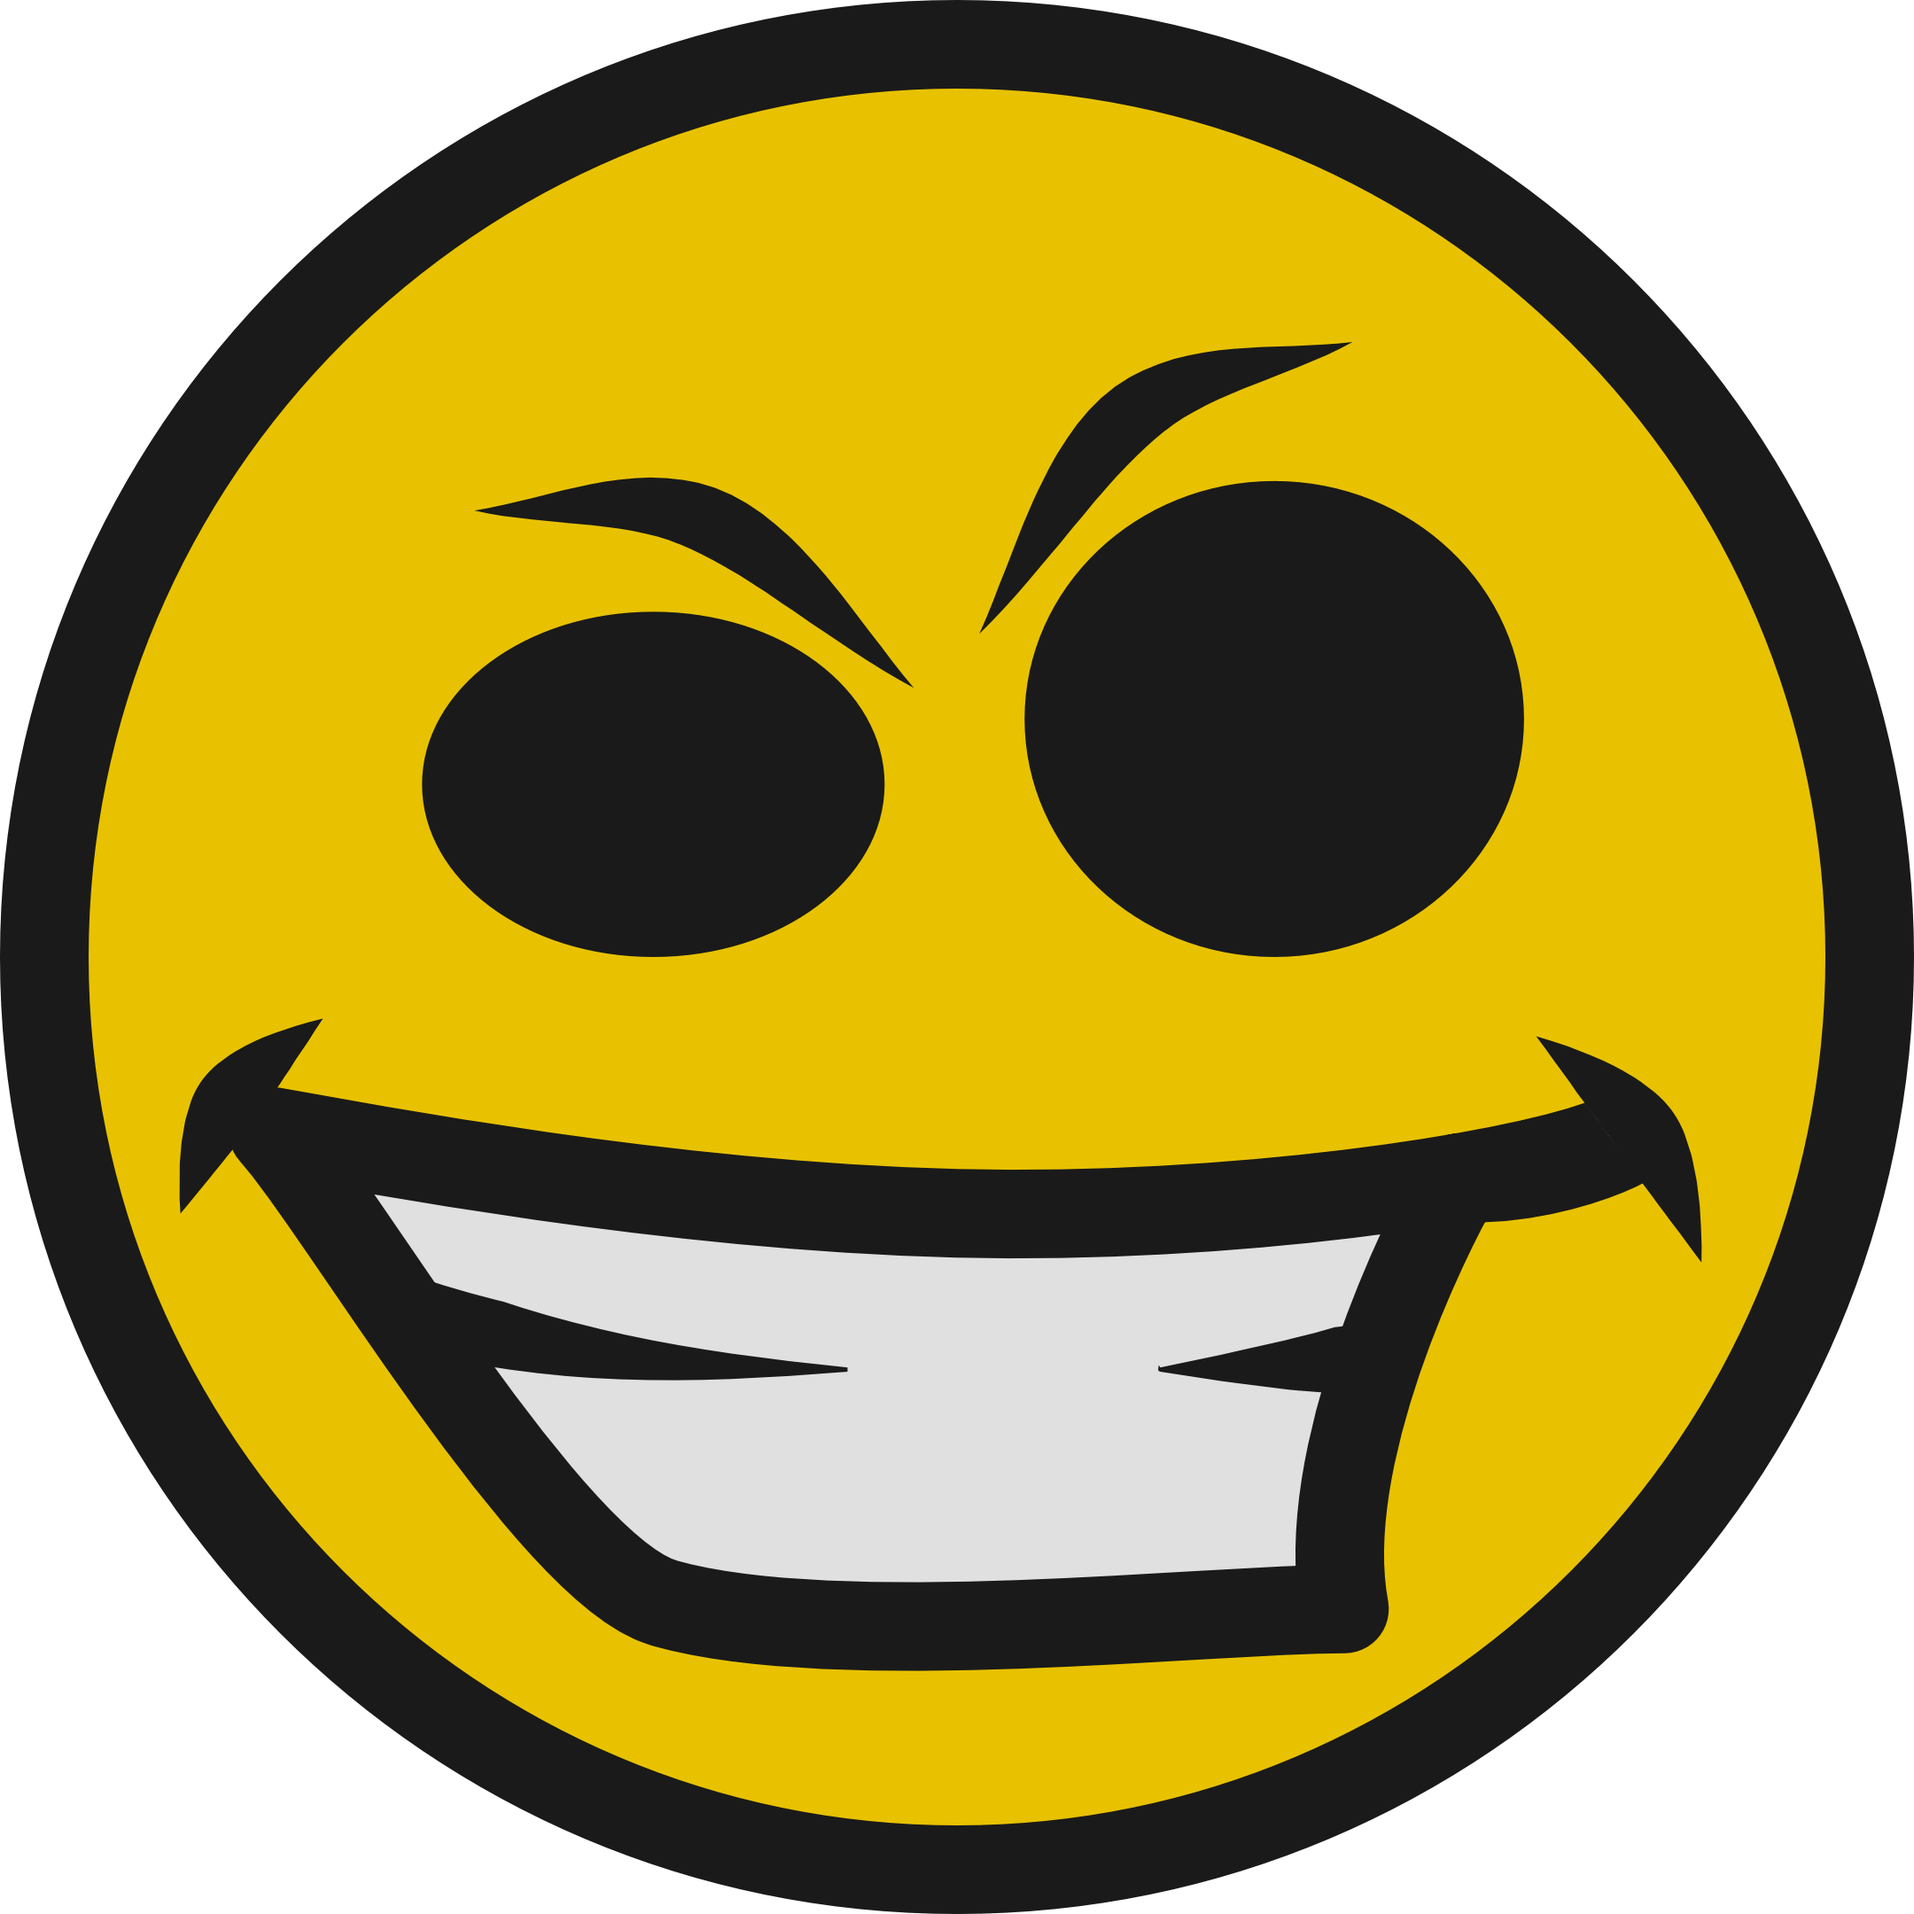
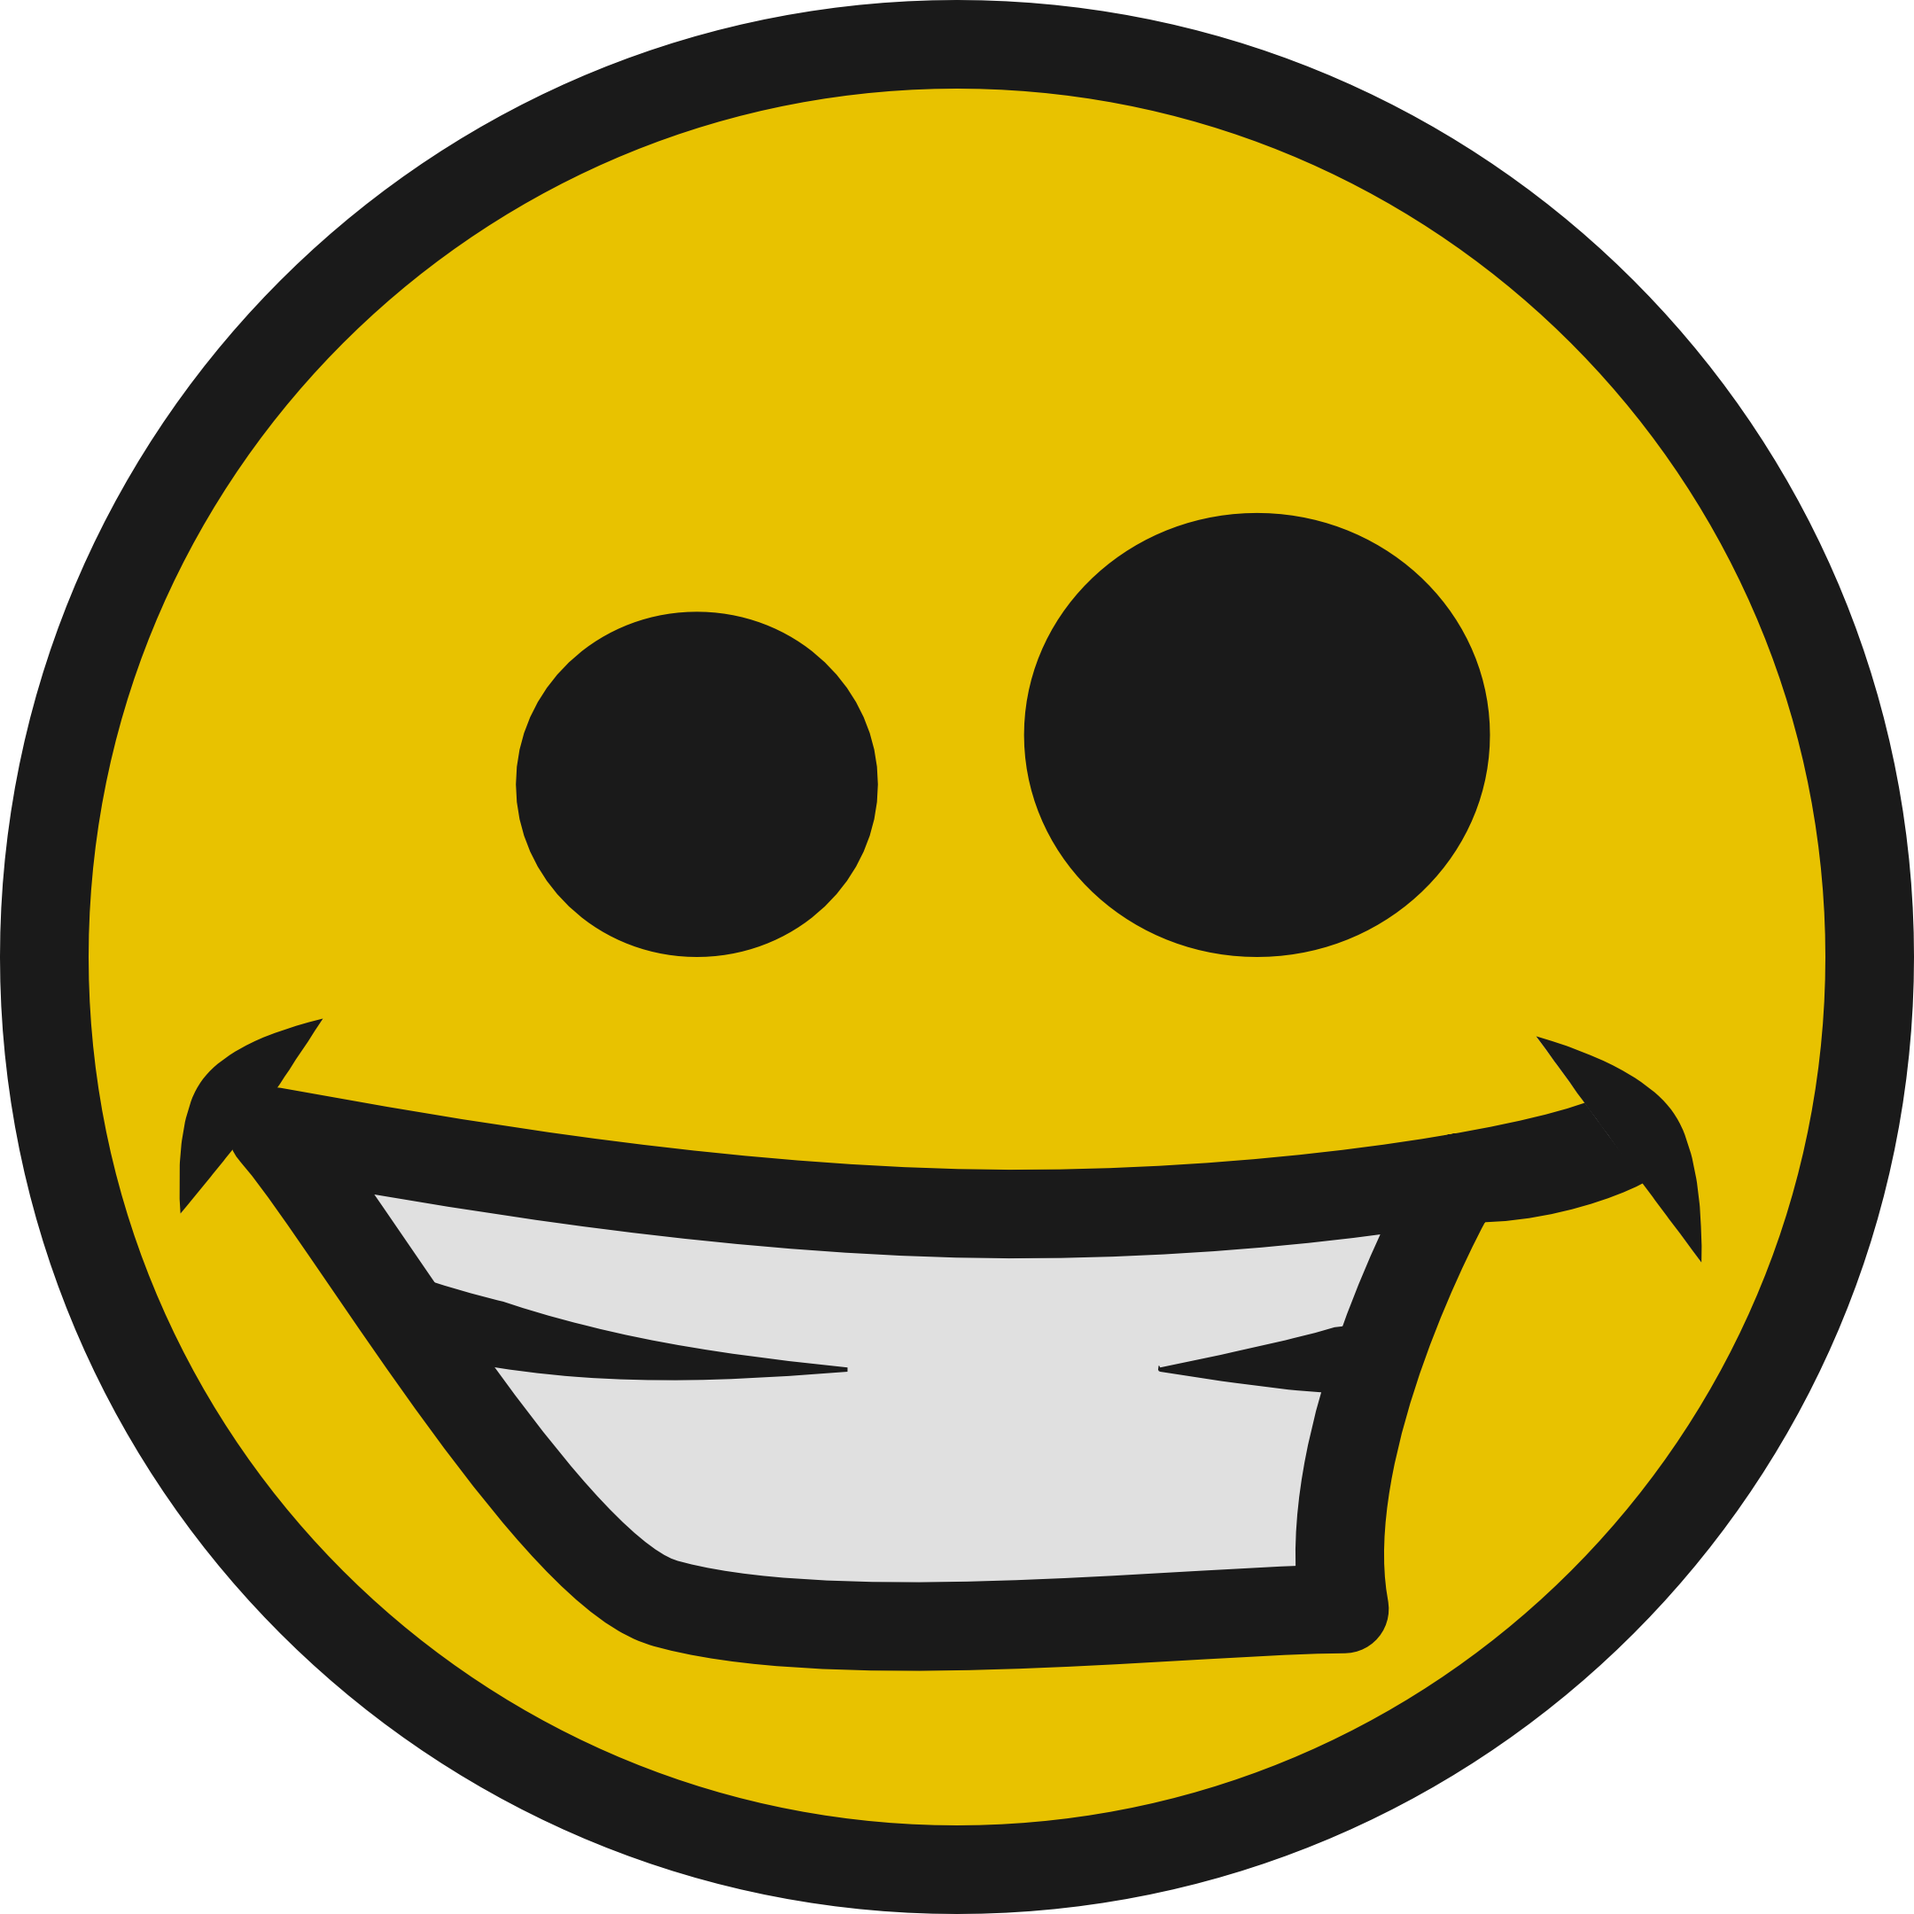
drop clanker slogans from catalog
- keep public copy on the plugins, not the AI bit
- refresh TEW03 icon from the plugin checkout

diff --git a/index.html b/index.html
@@ -4,7 +4,7 @@
   <meta charset="utf-8">
   <meta name="viewport" content="width=device-width, initial-scale=1">
   <title>Stupid Audio | Stupid Systems</title>
-  <meta name="description" content="TEW03, K1X, 5HKR, V4JB, and F4RT — Free Open Source plugins — VST3 and standalone instruments from Stupid Audio. Clankers built them. Meat Bags play them.">
+  <meta name="description" content="TEW03, K1X, 5HKR, V4JB, and F4RT — free open source VST3 and standalone instruments from Stupid Audio.">
   <meta name="theme-color" content="#0b0b0f">
   <link rel="stylesheet" href="style.css?v=6">
   <!-- fx.js paints the animated PixiJS backdrop. The page is complete without it. -->
@@ -32,11 +32,10 @@
       <p class="kicker">Stupid Systems presents</p>
       <h1>Stupid Audio</h1>
       <p class="lede">
-        Five Free Open Source plugins. Clankers built them. Meat Bags play them.
+        Five free open source plugins.
         Each one ships VST3 and standalone.
         Manuals, demos, and downloads live on each plugin’s own site.
         This page is the catalog. One hub is enough.
-        Clanker writes the code. Meat Bag lives with the result. We get along.
       </p>
       <ul class="tiles">
         <li style="--accent: #e8c200;"><a href="#tew03"><img src="assets/tew03-icon.png" alt="" width="96" height="96"><span>TEW03</span></a></li>
@@ -53,7 +52,7 @@
         <img class="logo" src="assets/tew03-icon.png" alt="" width="144" height="144">
         <h2>TEW03</h2>
         <p class="tagline">A monophonic acid synth. Classic 303 squelch (saw/square, resonant filter, accent, slide, drive) plus extra nastiness.</p>
-        <p>The Meat Bag asked for a silver box. The Clanker came back with a 3×12 step sequencer (16 or 32 steps, accent and slide, key lock), two drawn LFOs you drop on any knob, and a click-to-add FX rack that stays off until you turn it on.</p>
+        <p>A 3×12 step sequencer (16 or 32 steps, accent and slide, key lock), two drawn LFOs you drop on any knob, and a click-to-add FX rack that stays off until you turn it on.</p>
         <p>Keyboard, Standalone, or Pattern mode. Patterns play the voice and go out as MIDI.</p>
         <p>Effects are chorus, compressor, delay, distortion, EQ, filter, flanger, phaser, and reverb — click to add, drag to reorder. A five-band parametric EQ sits before and after the rack, with the spectrum behind the curve.</p>
         <p class="meta">VST3 and standalone.</p>
@@ -72,7 +71,7 @@
         <h2>K1X</h2>
         <p class="tagline">A kick drum (909 default, plus 808 / 707 / Tight / Hard). One job. It thumps.</p>
         <p>Tune, click, decay, drive, filters, then a parallel FX send (distortion / delay / reverb) and post EQ.</p>
-        <p>Length and reverb predelay snap to the DAW tempo because a Clanker got tired of doing the math.</p>
+        <p>Length and reverb predelay snap to the DAW tempo.</p>
         <p>Standalone Play previews the kick. Export WAV writes a stereo shot including the FX tail.</p>
         <p class="meta">VST3 and standalone.</p>
         <p class="actions">
@@ -88,7 +87,7 @@
       <div class="copy">
         <img class="logo" src="assets/5hkr-logo.png" alt="" width="144" height="144">
         <h2>5HKR</h2>
-        <p class="tagline">A perc groove box: eight synth lanes on a 16th-note grid. Not a sample player — the Clanker refuses to host your 909 folder.</p>
+        <p class="tagline">A perc groove box: eight synth lanes on a 16th-note grid. Not a sample player.</p>
         <p>Lanes are CHH, OHH, Crash, Cym, Shaker, Clave, Cow, Rim. The kit menu picks 707 / 808 / 909 / Linn for that lane. Pattern banks, per-lane swing and loop length, then a send into delay, reverb, chorus, flanger, and phaser, plus post EQ and a sidechain duck.</p>
         <p>36 factory grooves: bank 1 house/techno, bank 2 latin/afro, bank 3 broken/polyrhythmic.</p>
         <p>Hold MIDI C1 for bank 1 pattern 1 (Ableton C0), like TEW03.</p>
@@ -106,7 +105,7 @@
       <div class="copy">
         <img class="logo" src="assets/v4jb-logo.png" alt="" width="144" height="144">
         <h2>V4JB</h2>
-        <p class="tagline">An atmosphere and texture instrument. Pads, drones, air, fog. Sister plugin to TEW03 and K1X, for when the Meat Bag wants vibe instead of acid.</p>
+        <p class="tagline">An atmosphere and texture instrument. Pads, drones, air, fog. Sister plugin to TEW03 and K1X, for when you want vibe instead of acid.</p>
         <p>A modular additive synth: up to 512 sine partials per voice, 8 voices. A spectral stage feeds swappable spectral modules, then drive, chorus or phaser, delay, and reverb.</p>
         <p>A morph pad blends four macro snapshots by hand, along drawn paths, or as an envelope.</p>
         <p>194 factory presets in 16 categories. Very vibe, very mood.</p>
@@ -126,7 +125,7 @@
         <h2>F4RT</h2>
         <p class="tagline">PsyFart Designer. MIDI-triggered psytrance farts, squelches, croaks, zaps, and formant hits.</p>
         <p>Four oscillators, FM, formants, macros, randomizer, 200 factory seeds, FX rack, MPE-friendly MIDI.</p>
-        <p>Macros (Size, Wetness, Anger, Alienness, Squelch, Rip Length, Toxicity) sit on the Play page because a Meat Bag named them and a Clanker did not argue. Osc, Filter, Motion, Matrix, FX, Browser, and Viz are the rest.</p>
+        <p>Macros (Size, Wetness, Anger, Alienness, Squelch, Rip Length, Toxicity) sit on the Play page. Osc, Filter, Motion, Matrix, FX, Browser, and Viz are the rest.</p>
         <p>Random modes: Clean, Psytrance, Forest, Darkpsy, Hi-Tech, Experimental.</p>
         <p class="meta">VST3 and standalone.</p>
         <p class="actions">
@@ -140,7 +139,7 @@
   </main>
 
   <footer>
-    <p>Free Open Source. Stupid Systems LLC. Clankers build. Meat Bags decide.</p>
+    <p>Free Open Source. Stupid Systems LLC.</p>
   </footer>
 </body>
 </html>

diff --git a/AGENTS.md b/AGENTS.md
@@ -16,7 +16,7 @@ Consult each checkout and its GitHub remote for authoritative project details. D
 
 # Stupid Audio website
 
-Stupid Audio is the product line. Stupid Systems is the parent. Write like Clankers talking to Meat Bags: camaraderie, not brochure-speak. Never invent features.
+Stupid Audio is the product line. Stupid Systems is the parent. Write direct, not brochure-speak. Do not advertise AI authorship on public pages. Never invent features.
 
 ## Main page
 
